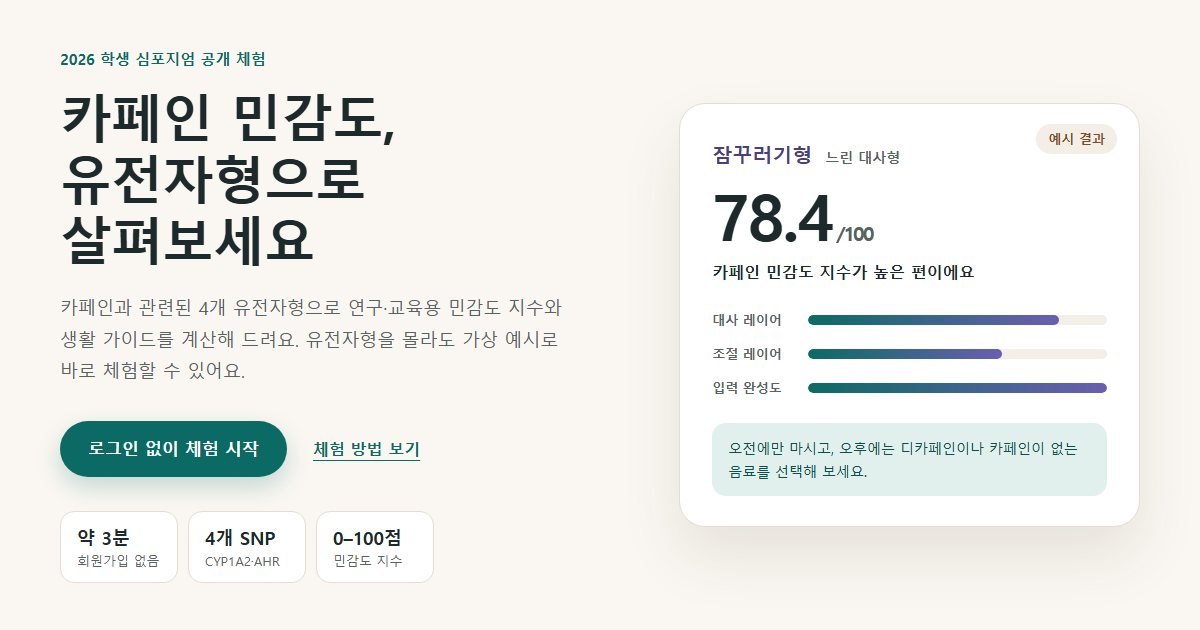
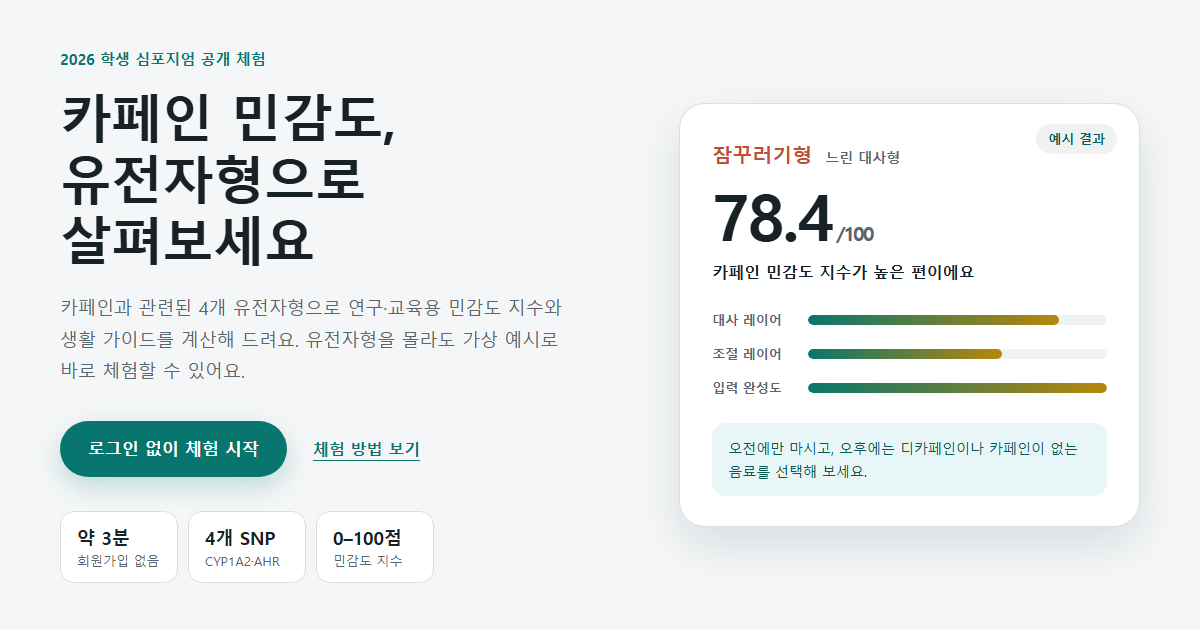
Use only the existing Caffeine Atlas palette on the homepage
The redesign introduced a warm cream canvas, a coffee brown and purple
accents. The owner wants the site's current colors kept throughout, so
home.css now maps every token to styles.css :root (--bg, --surface,
--surface-soft, --ink, --muted, --line, --teal, --teal-dark) and the
tints styles.css already uses.

The three result types now follow the analyzer gauge's low-to-high
scale: 각성형 green, 잠잠형 amber, 잠꾸러기형 coral, shown as a top border
on the existing light tints, with type names in --ink so amber text
never sits on a pale background. Sample bars reuse the teal-to-amber
gradient of the old preview, and the focus ring uses the site's
existing #367fdd. The link preview image is retaken.

diff --git a/caffeine-sensitivity-app/home.css b/caffeine-sensitivity-app/home.css
@@ -4,16 +4,16 @@
    requests, which the privacy notice does not cover. */
 
 body.landing {
-  --home-bg: #faf7f2;
-  --home-soft: #f3eee6;
-  --home-surface: #ffffff;
-  --home-ink: #1d2a2c;
-  --home-muted: #56635f;
-  --home-line: #e5ddd1;
-  --home-teal: #0b6b64;
-  --home-teal-deep: #0a4f4a;
-  --home-teal-soft: #e2f0ed;
-  --home-coffee: #7b4b27;
+  /* Only the existing Caffeine Atlas palette from styles.css :root. */
+  --home-bg: var(--bg);
+  --home-soft: var(--surface-soft);
+  --home-surface: var(--surface);
+  --home-ink: var(--ink);
+  --home-muted: var(--muted);
+  --home-line: var(--line);
+  --home-teal: var(--teal);
+  --home-teal-deep: var(--teal-dark);
+  --home-teal-soft: #e9f6f7;
   --home-radius: 18px;
   margin: 0;
   background: var(--home-bg);
@@ -43,7 +43,7 @@ body.landing figure {
 }
 
 body.landing a:focus-visible {
-  outline: 3px solid #2f6fd6;
+  outline: 3px solid #367fdd;
   outline-offset: 3px;
   border-radius: 6px;
 }
@@ -58,7 +58,7 @@ body.landing .home-top {
   position: sticky;
   top: 0;
   z-index: 10;
-  background: rgba(250, 247, 242, 0.94);
+  background: rgba(244, 246, 247, 0.94);
   border-bottom: 1px solid var(--home-line);
   backdrop-filter: blur(10px);
 }
@@ -120,7 +120,7 @@ body.landing .home-button {
   color: #fff;
   font-size: 17px;
   font-weight: 700;
-  box-shadow: 0 10px 24px rgba(11, 107, 100, 0.22);
+  box-shadow: 0 10px 24px rgba(8, 118, 110, 0.22);
 }
 
 body.landing .home-button:hover {
@@ -229,7 +229,7 @@ body.landing .home-sample {
   border: 1px solid var(--home-line);
   border-radius: 26px;
   background: var(--home-surface);
-  box-shadow: 0 30px 60px rgba(60, 44, 24, 0.10);
+  box-shadow: var(--shadow);
 }
 
 body.landing .home-sample-tag {
@@ -239,13 +239,13 @@ body.landing .home-sample-tag {
   padding: 4px 12px;
   border-radius: 999px;
   background: var(--home-soft);
-  color: var(--home-coffee);
+  color: var(--home-teal-deep);
   font-size: 13px;
   font-weight: 700;
 }
 
 body.landing .home-sample-type {
-  color: #4a3f7a;
+  color: var(--coral);
   font-size: 20px;
   font-weight: 800;
 }
@@ -308,7 +308,7 @@ body.landing .home-sample-bars i {
   display: block;
   height: 100%;
   border-radius: 999px;
-  background: linear-gradient(90deg, var(--home-teal), #6a5fb0);
+  background: linear-gradient(90deg, var(--teal), var(--amber));
 }
 
 body.landing .home-sample-tip {
@@ -392,22 +392,25 @@ body.landing .home-types {
 
 body.landing .home-type {
   padding: 30px 28px;
+  border-top: 5px solid var(--type-accent);
   border-radius: var(--home-radius);
+  background: var(--type-tint);
 }
 
-body.landing .home-type-fast { background: #fff2d4; --type-ink: #6e4600; }
-body.landing .home-type-mid { background: #dff0ea; --type-ink: #0b5751; }
-body.landing .home-type-slow { background: #e9e6f6; --type-ink: #463b78; }
+/* Same low-to-high scale as the analyzer gauge: green, amber, coral. */
+body.landing .home-type-fast { --type-accent: var(--green); --type-tint: #eef8f1; }
+body.landing .home-type-mid { --type-accent: var(--amber); --type-tint: #fff6df; }
+body.landing .home-type-slow { --type-accent: var(--coral); --type-tint: #fff2ef; }
 
 body.landing .home-type-band {
-  color: var(--type-ink);
+  color: var(--home-muted);
   font-size: 13px;
   font-weight: 700;
 }
 
 body.landing .home-type h3 {
   margin-top: 10px;
-  color: var(--type-ink);
+  color: var(--home-ink);
   font-size: 28px;
   font-weight: 800;
 }
@@ -417,8 +420,8 @@ body.landing .home-type-badge {
   margin-top: 6px;
   padding: 2px 10px;
   border-radius: 999px;
-  background: rgba(255, 255, 255, 0.7);
-  color: var(--type-ink);
+  background: var(--home-surface);
+  color: var(--home-ink);
   font-size: 13px;
   font-weight: 700;
 }
@@ -499,7 +502,8 @@ body.landing .home-layer em {
 
 body.landing .home-layer .home-layer-note {
   margin-top: 14px;
-  color: var(--home-coffee);
+  color: var(--home-muted);
+  font-weight: 600;
   font-size: 14px;
 }
 
